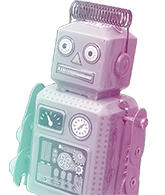
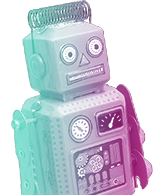
Altered bottom footer image

diff --git a/resume/index.html b/resume/index.html
@@ -69,7 +69,7 @@
 				
 				<article class="my-resume">
 					<h4>My Curriculum Vitae</h4>
-					<p>Here are all my qualifications and experience that I have gathered over the past few years. If there are any questions please feel free to contact me. References can be provided if requested.</p>
+					<p>Here are all my qualifications and experience. If there are any questions please feel free to contact me.</p>
 					
 					<h4>Education:</h4>
 					

diff --git a/css/main.css b/css/main.css
@@ -198,7 +198,7 @@ figure {
 
 main {
 	padding-bottom: 200px;
-	background: url("../img/robot-for-footer.png") no-repeat;
+	background: url("../img/corner-for-footer.png")no-repeat;
 	background-position: bottom right;
 }
 
@@ -581,6 +581,10 @@ footer .copyright {
 	
 	h4 {
 		font-size: 1.25em;
+	}
+	
+	h5 {
+	font-size: 1em;
 	}
 
 	p {
